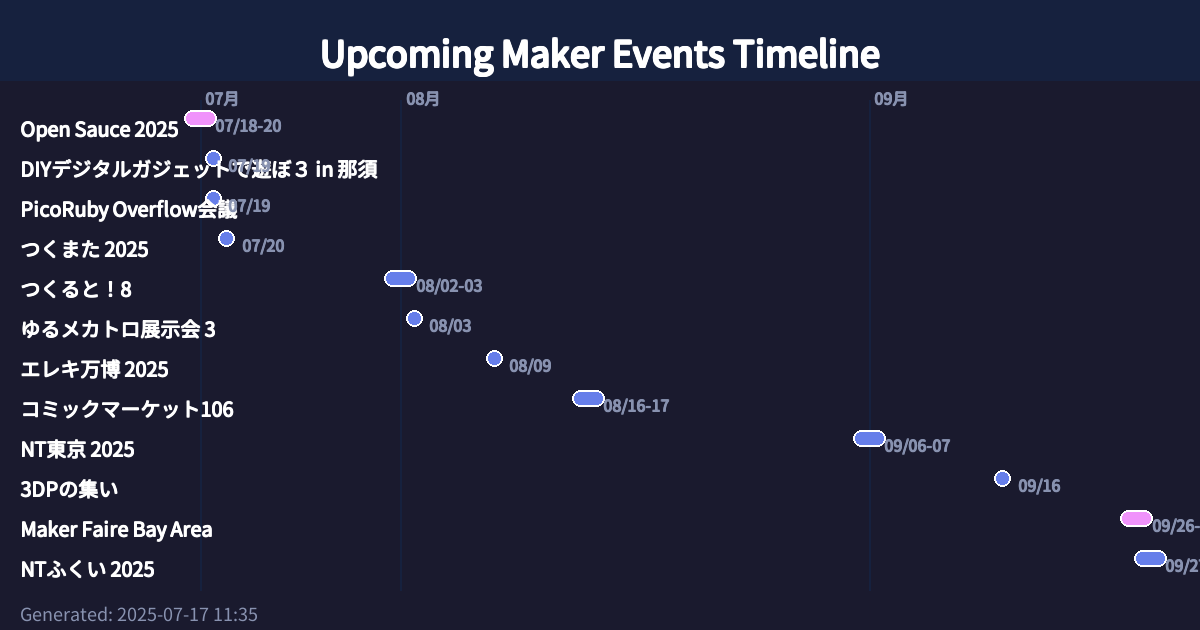
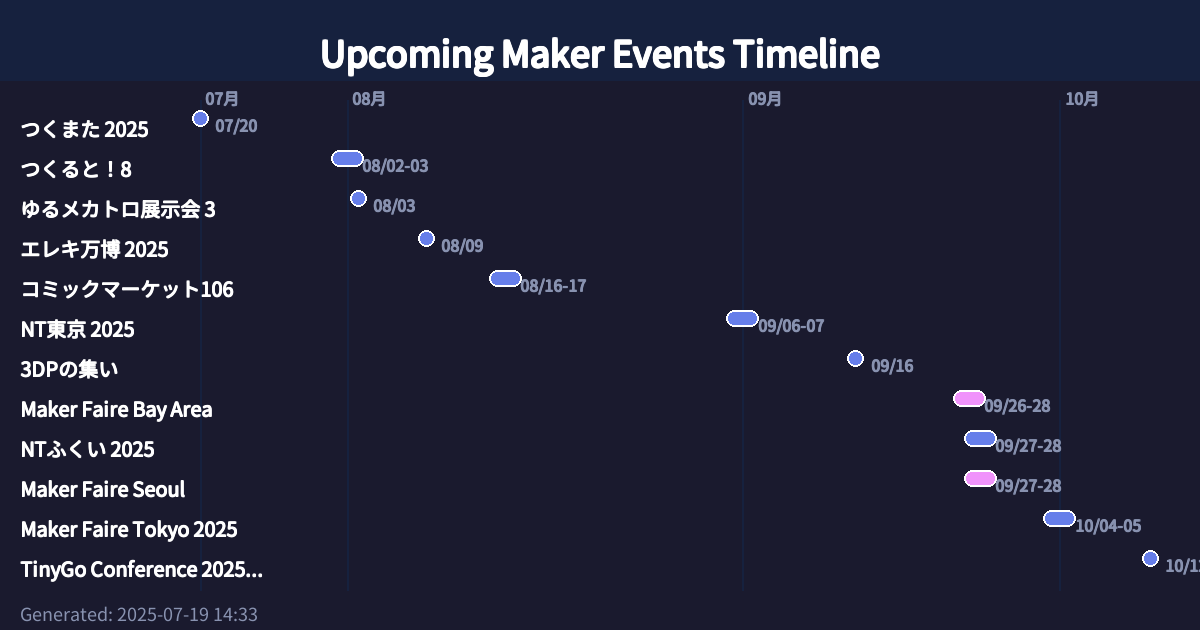
サイト更新

diff --git a/index.html b/index.html
@@ -7,7 +7,7 @@
     
     <!-- OGP Meta Tags for Social Media Sharing -->
     <meta property="og:title" content="Upcoming Maker Events | 今後のメイカーイベント">
-    <meta property="og:description" content="世界中のメイカーイベント情報を一覧で確認。Maker Faire、NT、技術書典など30件のイベント情報を掲載。 | Discover upcoming maker events worldwide including Maker Faires, technical conferences, and maker gatherings.">
+    <meta property="og:description" content="世界中のメイカーイベント情報を一覧で確認。Maker Faire、NT、技術書典など28件のイベント情報を掲載。 | Discover upcoming maker events worldwide including Maker Faires, technical conferences, and maker gatherings.">
     <meta property="og:type" content="website">
     <meta property="og:url" content="https://shinichi-ohki.github.io/maker_event/">
     <meta property="og:image" content="https://shinichi-ohki.github.io/maker_event/ogp_image.png">
@@ -17,11 +17,11 @@
     <!-- Twitter Card -->
     <meta name="twitter:card" content="summary_large_image">
     <meta name="twitter:title" content="Upcoming Maker Events | 今後のメイカーイベント">
-    <meta name="twitter:description" content="世界中のメイカーイベント情報を一覧で確認。30件のイベント情報を掲載。">
+    <meta name="twitter:description" content="世界中のメイカーイベント情報を一覧で確認。28件のイベント情報を掲載。">
     <meta name="twitter:image" content="https://shinichi-ohki.github.io/maker_event/ogp_image.png">
     
     <!-- Standard Meta Tags -->
-    <meta name="description" content="世界中のメイカーイベント情報を一覧で確認。Maker Faire、NT、技術書典など30件のイベント情報を掲載。">
+    <meta name="description" content="世界中のメイカーイベント情報を一覧で確認。Maker Faire、NT、技術書典など28件のイベント情報を掲載。">
     <meta name="keywords" content="Maker Faire, メイカーイベント, 技術イベント, NT, 技術書典, DIY, ハードウェア, プログラミング">
     <meta name="author" content="Maker Events Team">
     <style>
@@ -203,44 +203,6 @@
                 <div class="event-card">
                     <div class="event-image">
                         
-                            <img src="https://media.connpass.com/thumbs/97/e5/97e5cd6dcee122a946a0cfd527e4f387.png" alt="DIYデジタルガジェットで遊ぼ３ in 那須" style="width: 100%; height: 100%; object-fit: cover;">
-                        
-                    </div>
-                    <div class="event-content">
-                        
-                        <div class="event-date">2025年07月19日</div>
-                        
-                        <h3 class="event-title">DIYデジタルガジェットで遊ぼ３ in 那須</h3>
-                        <p class="event-location">那須塩原図書館「みるる」, 那須塩原, 日本</p>
-                        
-                        
-                        <a href="https://play-dg.connpass.com/event/347286/" class="event-link" target="_blank">詳細を見る</a>
-                        
-                    </div>
-                </div>
-                
-                <div class="event-card">
-                    <div class="event-image">
-                        
-                            <img src="https://naniwarb.github.io/picorubyoverflowkaigi/ogp.png" alt="PicoRuby Overflow会議" style="width: 100%; height: 100%; object-fit: cover;">
-                        
-                    </div>
-                    <div class="event-content">
-                        
-                        <div class="event-date">2025年07月19日</div>
-                        
-                        <h3 class="event-title">PicoRuby Overflow会議</h3>
-                        <p class="event-location">gusuku Ashibinaa OSAKA, 大阪, 日本</p>
-                        
-                        
-                        <a href="https://naniwarb.github.io/picorubyoverflowkaigi/" class="event-link" target="_blank">詳細を見る</a>
-                        
-                    </div>
-                </div>
-                
-                <div class="event-card">
-                    <div class="event-image">
-                        
                             🛠
                         
                     </div>
@@ -405,6 +367,25 @@
                         
                         
                         <a href="https://makezine.jp/event/mft2025/" class="event-link" target="_blank">詳細を見る</a>
+                        
+                    </div>
+                </div>
+                
+                <div class="event-card">
+                    <div class="event-image">
+                        
+                            <img src="https://media.connpass.com/thumbs/37/2f/372f61d2558d7daa8715237aecf31e2e.png" alt="TinyGo Conference 2025 in JAPAN" style="width: 100%; height: 100%; object-fit: cover;">
+                        
+                    </div>
+                    <div class="event-content">
+                        
+                        <div class="event-date">2025年10月12日</div>
+                        
+                        <h3 class="event-title">TinyGo Conference 2025 in JAPAN</h3>
+                        <p class="event-location">秋葉原ビジネスセンター, 東京, 日本</p>
+                        
+                        
+                        <a href="https://tinygo-keeb.connpass.com/event/353267/" class="event-link" target="_blank">詳細を見る</a>
                         
                     </div>
                 </div>
@@ -584,25 +565,6 @@
         <section class="international-events">
             <h2 class="section-title">🌍 International Events | 海外のイベント</h2>
             <div class="events-grid">
-                
-                <div class="event-card">
-                    <div class="event-image">
-                        
-                            🛠
-                        
-                    </div>
-                    <div class="event-content">
-                        
-                        <div class="event-date">July 18-20, 2025</div>
-                        
-                        <h3 class="event-title">Open Sauce 2025</h3>
-                        <p class="event-location">San Mateo County Event Center, サンフランシスコ, USA</p>
-                        
-                        
-                        <a href="https://opensauce.com/" class="event-link" target="_blank">Learn More</a>
-                        
-                    </div>
-                </div>
                 
                 <div class="event-card">
                     <div class="event-image">
